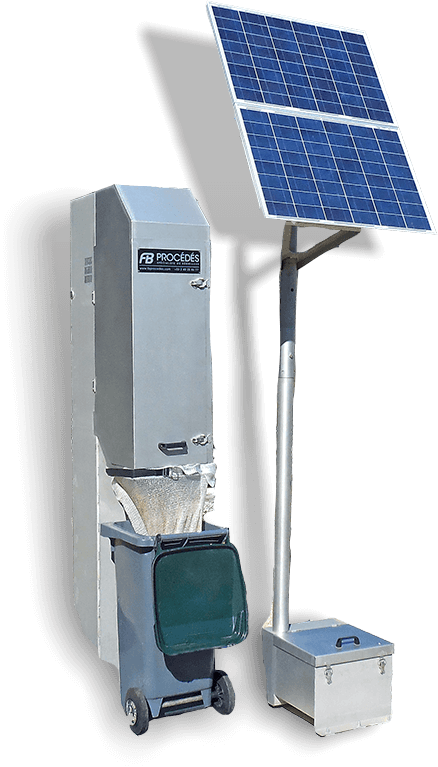
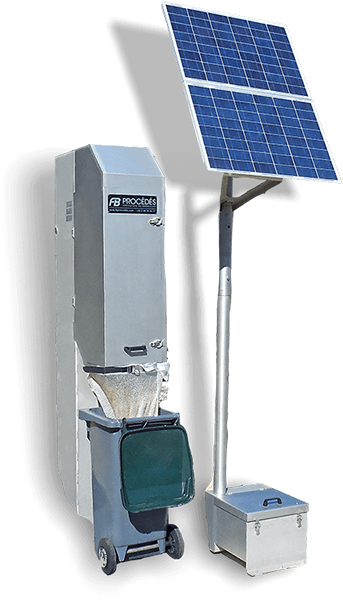
responsive-images
Section one

Changed region(s): [[0.3207, 0.33, 0.4665, 0.39], [0.4373, 0.57, 0.4665, 0.6], [0.2624, 0.63, 0.2915, 0.66]]

diff --git a/index.html b/index.html
@@ -119,7 +119,7 @@
                         biodiversity is in <span> danger</span> of collapse.</p>
                 </div>
                 <div class="col-md-7 module">
-                    <img src="./images/sectionOne/reusable-energy.png" alt="">
+                    <img  class="full-screen-image" src="./images/sectionOne/reusable-energy.png" alt="">
                 </div>
             </div>
         </div>
@@ -127,7 +127,7 @@
         <div class="container">
             <div class="row">
                 <div class="col-md-7 module">
-                    <img src="./images/sectionOne/solar-panel.png" alt="">
+                    <img class="full-screen-image-verticale" src="./images/sectionOne/solar-panel.png" alt="">
                 </div>
                 <div class="col-md-5 module">
                     <p>Photovoltaic cells require a staggering variety of <span>rare earth minerals</span> to build, one
@@ -160,7 +160,7 @@
                         – in an area where some communities already have to get water driven in from elsewhere..</p>
                 </div>
                 <div class="col-md-7 module">
-                    <img src="./images/sectionOne/electric-vehicle.html.png" alt="">
+                    <img class="full-screen-image" src="./images/sectionOne/electric-vehicle.html.png" alt="">
 
                 </div>
             </div>
@@ -169,7 +169,7 @@
         <div class="container">
             <div class="row">
                 <div class="col-md-7 module">
-                    <img src="./images/sectionOne/wind-power.png" alt="">
+                    <img class="full-screen-image-verticale" src="./images/sectionOne/wind-power.png" alt="">
                 </div>
                 <div class="col-md-5 module">
                     <p>As with all energy supply options, wind energy can have adverse environmental impacts, including
@@ -644,7 +644,6 @@
         <div class="row">
 
     <div class="col-md-4">
-        <img src="./images/footer/footer-banner.png" alt="we need your help">
     </div>
     <div class="col-md-4">
         <ul>

diff --git a/sass/base/_utilities.scss b/sass/base/_utilities.scss
@@ -50,3 +50,16 @@ You can also shorthand most properties for faster coding. Here are a couple I us
         width: 100% !important;
         height: auto !important;
     }
+
+//responsive-image{
+    .full-screen-image{
+        width: 100% !important;
+        height: auto !important;
+    }
+
+    .full-screen-image-verticale{
+        height: 100% !important;
+        width: auto !important;
+
+    }
+    

diff --git a/css/style.css b/css/style.css
@@ -307,6 +307,14 @@ You can also shorthand most properties for faster coding. Here are a couple I us
   width: 100% !important;
   height: auto !important; }
 
+.full-screen-image {
+  width: 100% !important;
+  height: auto !important; }
+
+.full-screen-image-verticale {
+  height: 100% !important;
+  width: auto !important; }
+
 /*components*/
 /*layout*/
 /*pages*/

diff --git a/sass/pages/_index.scss b/sass/pages/_index.scss
@@ -102,10 +102,11 @@ nav{
     @include sectionMargin;
     .container{
        margin-top: 15rem;
-          .row{
-        display: flex;
-        align-items: center;       
-    }  
+       .row{
+           display: flex;
+           align-items: center;
+       }
+  
     }  
 }
 //section-one ENDS
